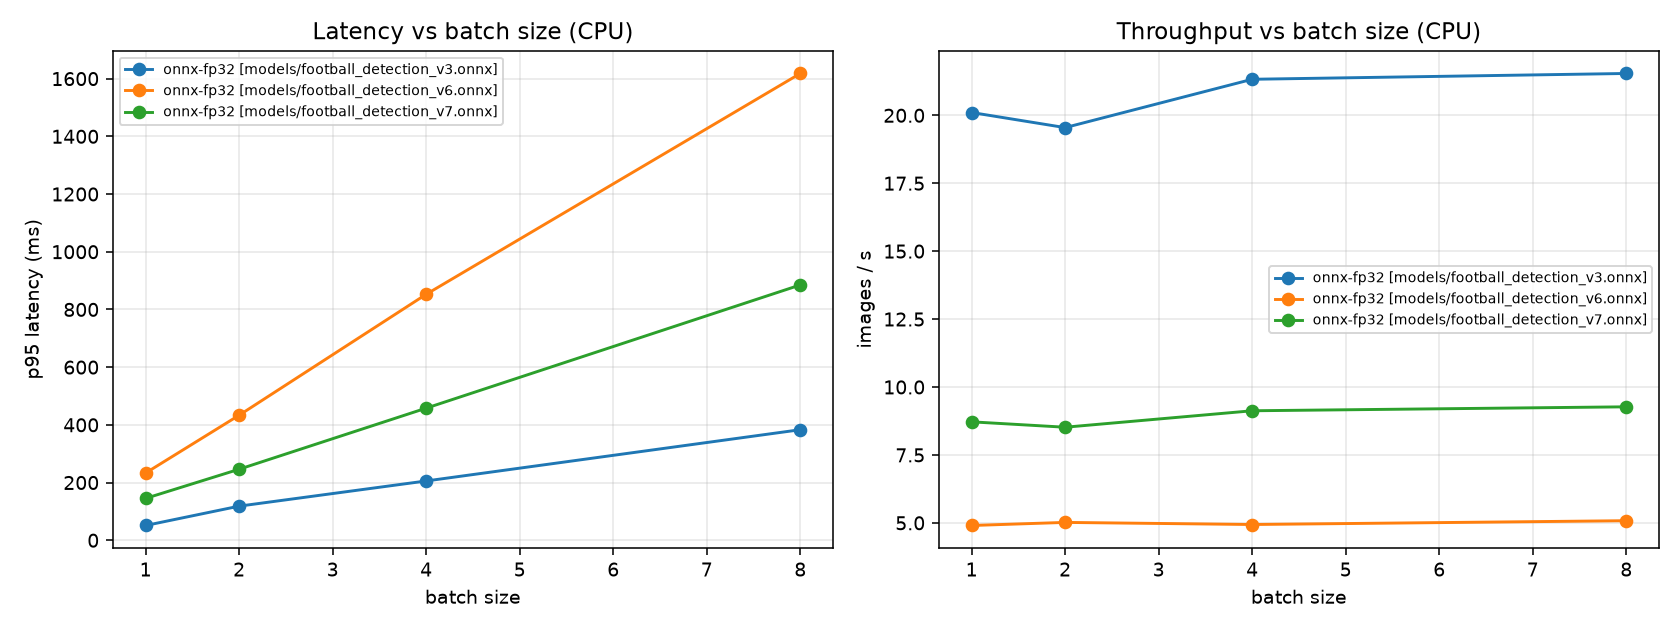
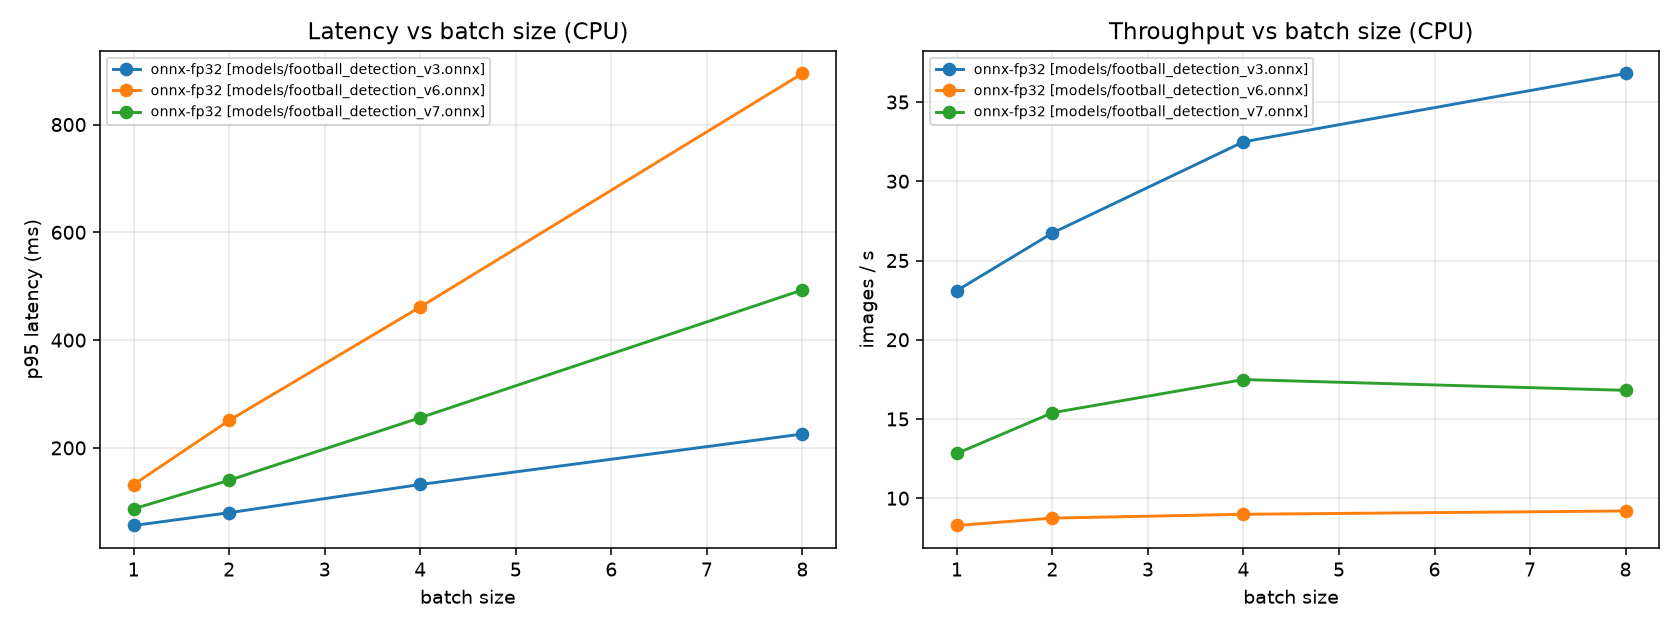
feat: update latency benchmarks with 16:9 synthetic frames and improved metrics

diff --git a/README.md b/README.md
@@ -222,31 +222,34 @@ runner, each at its own input size; `reports/latency.x86.presets.json`):
 
 | preset | model | input | p50 ms | p95 ms | p99 ms | img/s |
 |---|---|---|---|---|---|---|
-| fast | v3 | 640 | 49.6 | 51.1 | 52.3 | 20.1 |
-| balanced | v7 | 960 | 110.0 | 145.1 | 149.6 | 8.7 |
-| accurate | v6 | 1280 | 194.0 | 233.0 | 237.1 | 4.9 |
+| fast | v3 | 640 | 35.5 | 56.0 | 56.3 | 23.1 |
+| balanced | v7 | 960 | 84.0 | 87.0 | 89.0 | 12.8 |
+| accurate | v6 | 1280 | 129.0 | 132.0 | 135.0 | 8.3 |
 
-**The ranking holds on a different CPU.** Relative to fast, balanced costs 2.2x and accurate 3.9x
-here; on the M2 it is 2.0x and 3.7x. Batching does not help: img/s stays flat from batch 1 to 8
-for all three, so one image costs the same whether it arrives alone or in a batch of eight, and
-the cost scales with pixels.
+The frames are synthetic 1920x1080 noise (the CI runner has no dataset; `benchmark.py` records the frame source in
+its report). The ranking holds on a different CPU.
 
-**Do not compare absolute numbers with the v3 table above.** That earlier CI run measured v3
-onnx-fp32 at 29.8 ms; this run measured the same file at 49.6 ms, on a different runner image
-(onnxruntime 1.29 vs 1.31). Shared runners vary, so only the ratios *within* one run mean
-anything. The two runs also cover different things: the earlier one compares torch / fp32 /
-int8 on v3, this one compares the three presets in fp32 only.
+- **Ratios.** Balanced costs 2.4x and accurate 3.6x of fast at the median (on the M2, 2.0x and 3.7x). Read the
+  median: fast's p95 and p99 (56 ms) sit far above its p50 (35.5 ms), so some of its 100 runs were slow on the
+  shared runner, and ratios of p95s (1.6x and 2.4x) mostly measure that noise.
+- **Batching helps a little here.** Throughput goes from 23.1 to 36.8 img/s at batch 8 for fast (+59%), from 12.8
+  to 17.5 img/s at batch 4 for balanced (16.8 at batch 8), and from 8.3 to 9.2 for accurate (+11%). The previous CI
+  run of this table (square frames, an older runner image) reported flat throughput, so the size of the batching
+  gain is runner-dependent; it is one run each and should not be read more finely than that.
+- **Do not compare absolute numbers across CI runs.** v3 onnx-fp32 measured 29.8 ms in the earlier v3-only run
+  (onnxruntime 1.29), 49.6 ms in the first presets run (square frames), and 35.5 ms in this one (16:9 frames,
+  onnxruntime 1.31.1). Shared runners vary by about as much as the frame shape matters, so only ratios *within* one
+  run mean anything. The runs also cover different things: the earlier one compares torch / fp32 / int8 on v3,
+  this one compares the three presets in fp32 only.
 
-**What these frames were.** The CI runner has no dataset (it is not distributed), so `benchmark.py` timed random
-noise, and the fallback was a 640x640 *square* for every model. A model letterboxes its input to its own size:
-a square frame is padded to the full square (960x960 for balanced, 1280x1280 for accurate) while a real 16:9 frame
-is padded to 960x544 and 1280x736, about 1.7x fewer pixels. On the M2 the same noise costs 25.6 / 59.2 / 107 ms
-as a 640x640 square and 16.1 / 31.9 / 59.4 ms as a 1920x1080 frame (fast / balanced / accurate), so the square
-overstated latency by 1.6x to 1.85x. The absolute milliseconds in this x86 table are therefore upper bounds on
-what a real frame costs, and the ratios are slightly inflated too: balanced and accurate cost 2.2x and 3.9x of fast
-here, against about 2.0x and 3.7x with 16:9 frames. The Apple M2 table above was timed on real dataset frames.
-`benchmark.py` now falls back to 1920x1080 frames and records the frame source in its report; this table
-predates that fix and has not been re-run yet.
+**Why the frame shape matters.** A model letterboxes its input to its own size: a square frame is padded to the
+full square (960x960 for balanced, 1280x1280 for accurate) while a real 16:9 frame is padded to 960x544 and
+1280x736, about 1.7x fewer pixels. The first presets run used a 640x640 *square* of noise for every model. On the
+M2 the same noise costs 25.6 / 59.2 / 107 ms as a 640x640 square and 16.1 / 31.9 / 59.4 ms as a 1920x1080 frame
+(fast / balanced / accurate), so the square overstated latency by 1.6x to 1.85x there. On CI the fix lowered the
+medians by 24% to 34% (49.6 to 35.5, 110 to 84, 194 to 129 ms), a smaller drop than on the M2; runner variation
+is mixed into that, so one CI run cannot separate the two effects. The Apple M2 table above was timed on real
+dataset frames.
 
 ### Load test: does batching help? (Locust, local Docker, `onnx-fp32`, 1 min/run)
 
